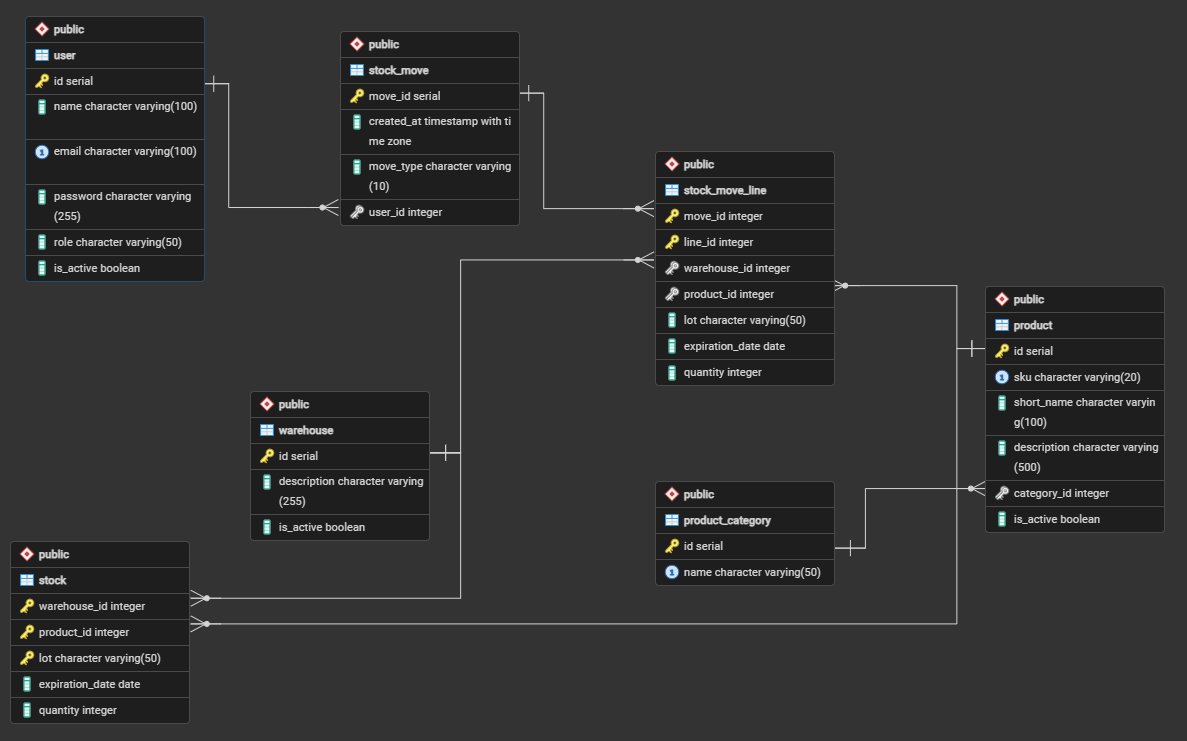
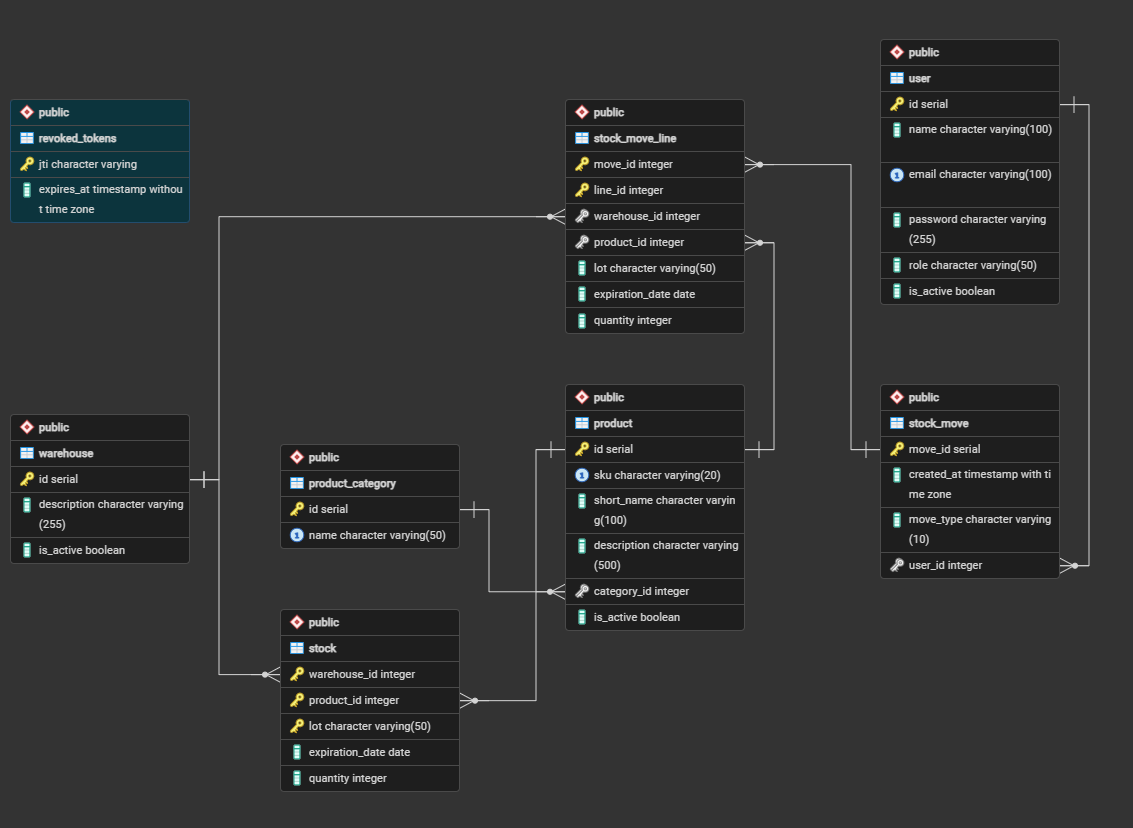
docs: update README, ARCHITECTURE, ROADMAP, and SETUP for enhanced WebSocket authentication and token revocation details

diff --git a/docs/ARCHITECTURE.md b/docs/ARCHITECTURE.md
@@ -100,7 +100,7 @@ Each resource has its own `APIRouter` with a fixed prefix and tag:
 | `warehouses.py`          | `/warehouses`        | Read: any user; Write: `require_admin` |
 | `stock.py`               | `/stock`             | `get_current_user` |
 | `stock_moves.py`         | `/stock-moves`       | `get_current_user` |
-| `websocket.py`           | `/ws`                | None (connection-level) |
+| `websocket.py`           | `/ws`                | Token validated on first message (see [WebSocket](#websocket)) |
 
 Paginated list endpoints return a consistent shape:
 
@@ -122,14 +122,18 @@ Authentication uses **JWT** (PyJWT, HS256). Two token types are in play:
 
 Authorization is enforced through two FastAPI dependencies:
 
-- `get_current_user` — decodes the access token from the `Authorization: Bearer` header and returns the `User` ORM object. Used for routes any authenticated user can access.
+- `get_current_user` — decodes the access token from the `Authorization: Bearer` header, checks the `revoked_tokens` blocklist (see below), and returns the `User` ORM object. Used for routes any authenticated user can access.
 - `require_admin` (in `dependencies.py`) — calls `get_current_user` and additionally checks `user.role == "admin"`. Raises `HTTP 403` otherwise.
 
 Role checks are never inlined inside route functions; they are always delegated to these dependencies.
 
+**Token revocation:** every JWT includes a `jti` (JWT ID) claim — a UUID generated at creation time. On logout, the `jti` of the access token is stored in the `revoked_tokens` table alongside its expiration time. `get_current_user` rejects any token whose `jti` appears in this table, making logout effectively immediate regardless of token lifetime.
+
 ### WebSocket
 
-A single WebSocket endpoint is registered at `/ws/stock-moves`. It uses a `ConnectionManager` class that maintains a list of active connections and broadcasts text messages to all of them.
+A single WebSocket endpoint is registered at `/ws/stock-moves`. It uses a `ConnectionManager` class that maintains a list of **authenticated** active connections and broadcasts text messages to all of them.
+
+**Authentication flow:** connections are authenticated via a first-message pattern. The client connects and immediately sends the access token as the first text message. The server validates the token (signature, expiry, and `is_active` status) before adding the connection to the broadcast list. Connections that fail validation are closed with code `1008` (Policy Violation). This avoids exposing the token as a URL query parameter, which would appear in server logs.
 
 When a stock movement is created via the REST API, the `stock_moves` router broadcasts a notification through this manager, so connected clients can update their UI without polling.
 
@@ -150,6 +154,7 @@ Seven tables make up the schema. The diagram below shows the foreign key relatio
 | `stock`             | (`warehouse_id`, `product_id`, `lot`) | `quantity`, `expiration_date`                       |
 | `stock_move`        | `move_id`                             | `move_type` (`IN`/`OUT`), `user_id` FK, `created_at`|
 | `stock_move_line`   | (`move_id`, `line_id`)                | `warehouse_id`, `product_id`, `lot`, `quantity`     |
+| `revoked_tokens`    | `jti`                                 | `expires_at` — used to invalidate tokens on logout  |
 
 The schema is created at application startup by SQLModel's `create_db_and_tables()`. SQL init scripts in `db_init/` run once on first PostgreSQL volume creation and seed the initial data and database triggers.
 
@@ -235,7 +240,10 @@ Page/Component
 5. 5 minutes before expiry, AuthProvider calls POST /auth/refresh:
      - Browser automatically sends the HttpOnly cookie
      - Backend validates refresh token, issues new access_token
-6. On logout → POST /auth/logout clears the cookie server-side.
+6. On logout → POST /auth/logout:
+     - Clears the HttpOnly refresh token cookie server-side.
+     - Stores the access token's `jti` in `revoked_tokens` (with its expiration time).
+     - Subsequent requests using the same access token are rejected immediately by `get_current_user`.
 ```
 
 The refresh token is never accessible to JavaScript (`HttpOnly`). In production (`ENVIRONMENT=production`), both tokens' cookies are set with `Secure=True`, requiring HTTPS.

diff --git a/docs/ROADMAP.md b/docs/ROADMAP.md
@@ -18,8 +18,9 @@ This file outlines the planned features and improvements for **Tabulae**, both t
   - Add **unit tests for the frontend** (Jest + React Testing Library).
   - Explore E2E testing (Playwright or Cypress).
     
-- [ ] **Backend Testing** 
-  - Ensure backend coverage is solid for critical endpoints.
+- [x] **Backend Testing** *(partially complete)*
+  - [x] WebSocket endpoint coverage added (`test_websocket.py`): valid token, invalid token, inactive user.
+  - [ ] Review and extend coverage for remaining critical endpoints.
 
 ---
 
@@ -33,15 +34,15 @@ This file outlines the planned features and improvements for **Tabulae**, both t
 
 ## Security & resilience
 
-- [ ] **WebSocket hardening**
+- [x] **WebSocket hardening** *(partially complete)*
 
-  - Validate token before accepting a connection.
-  - Handle reconnection policies and expiration correctly.
+  - [x] Validate token via first-message pattern (token sent as first WebSocket message after connection, not exposed in URL or server logs).
+  - [ ] Handle reconnection policies and expiration correctly.
 
-- [ ] **Stronger authentication**
-  - Implement forced token expiration after logout/inactivity.
-  - Detect multiple active sessions per user.
-  - Add account recovery via email.
+- [x] **Stronger authentication** *(partially complete)*
+  - [x] Forced token expiration after logout: `jti` claim added to all tokens; `revoked_tokens` blocklist table invalidates tokens on logout.
+  - [ ] Detect multiple active sessions per user.
+  - [ ] Add account recovery via email.
 
 ---
 

diff --git a/README.md b/README.md
@@ -80,10 +80,10 @@ The name _Tabulae_ comes from Latin — meaning boards, records, or tablets — 
 ## Technical Highlights
 
 - **Layered backend architecture** — Clear separation between models (SQLModel), schemas (Pydantic), and routers (FastAPI), with shared `Depends()` injection for auth, sessions, and permissions.
-- **JWT access + refresh token flow** — Short-lived access tokens paired with refresh tokens, with role-based guards (`require_admin`) applied at the dependency layer.
+- **JWT access + refresh token flow** — Short-lived access tokens with `jti` claims paired with HttpOnly refresh token cookies. Token revocation on logout via a `revoked_tokens` blocklist, with role-based guards (`require_admin`) applied at the dependency layer.
 - **Isolated test database** — Pytest uses a dedicated PostgreSQL container (port 5433) with per-test session cleanup, ensuring fully isolated and reproducible tests.
 - **Paginated responses** — All list endpoints return a consistent `{ data, total, limit, offset }` shape, ready for frontend pagination.
-- **Real-time WebSocket notifications** — Stock movement events broadcast to connected clients via a WebSocket endpoint.
+- **Real-time WebSocket notifications** — Stock movement events broadcast to authenticated clients via a WebSocket endpoint. Authentication uses a first-message pattern to avoid token exposure in URLs.
 - **Docker Compose orchestration** — Separate dev (hot reload, pgAdmin) and production (Nginx + Gunicorn) configurations with independent Dockerfiles per service.
 
 ---

diff --git a/docs/SETUP.md b/docs/SETUP.md
@@ -384,6 +384,6 @@ If the frontend can't connect to the WebSocket:
 ✅ Solution:
 
 - Confirm the backend WebSocket endpoint is reachable:  
-  `ws://localhost:8000/ws/movements`
+  `ws://localhost:8000/ws/stock-moves`
 - In production, make sure Nginx is configured to proxy WebSocket connections properly.
 - Ensure the backend container exposes and listens on the correct port (`8000`).
